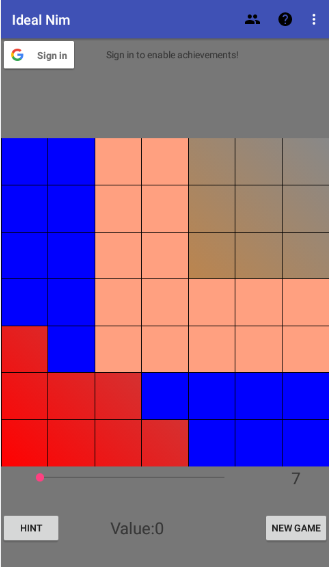
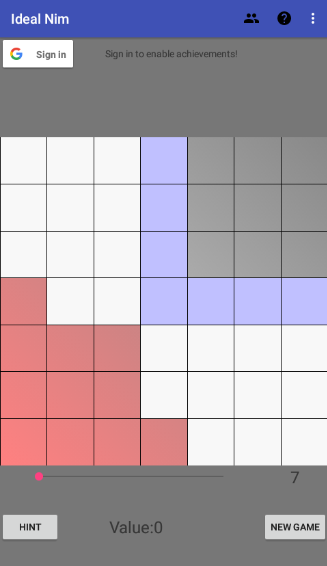
Changes in color and opening dialog (inspired by comments from Antonella Perucca).

diff --git a/app/src/main/assets/Help.html b/app/src/main/assets/Help.html
@@ -10,7 +10,7 @@
     </style>
 </head>
 <body>
-<a name="top"/><h1>Ideal Nim</h1>
+<h1><a name="top">Ideal Nim</a></h1>
 <ul>
     <li><a href="#idea">The idea</a></li>
     <li><a href="#gameplay">Gameplay</a></li>
@@ -34,7 +34,7 @@ More information on this appears in the section on
 <p/>
 <a href="#top">Back to the top</a>
 
-<h2><a name="gameplay"/>Gameplay</h2>
+<h2><a name="gameplay">Gameplay</a></h2>
 
 This section is divided into the following subsections:
 <ul>
@@ -46,7 +46,7 @@ This section is divided into the following subsections:
 
 <h3><a name="basic">Basic gameplay</a></h3>
 A game of Ideal Nim takes place on a finite gameboard.
-<p align="center"><img align="center" src="screenshot_for_help_no_moves.png" width="50%"></p>
+<p align="center"><img align="center" src="screenshot_for_help_no_moves_crop.png" width="50%"></p>
 In theory, the board could extend indefinitely to the northeast;
 that is, an &ldquo;ideal&rdquo; game of Ideal Nim has an infinite game board.
 In practice, this is impossible to implement, so the app limits the board size.
@@ -71,11 +71,9 @@ this makes clear which position your opponent chose.
     <b><i>The player who takes the last valid square wins.</i></b><p/>
     <img src="screenshot_for_game_over_crop.png" width="50%">
 </center>
-Initially, valid positions are colored <span style="color:blue;">blue</span>,
-while invalid positions are colored <span style="color:red;">red</span> or
-<span style="color:#ff8000;">orange</span>,
-depending on whether the invalid square is <span style="color:red;">unplayable</span> or
-<span style="color:#ff8000;">already played</span>.
+Initially, valid positions are colored white,
+while invalid positions are colored red, gray, or blue,
+depending on whether the invalid square is unplayable, already played, or just played.
 You can change this in the <a href="#options">Options</a>.
 <p/>
 To help identify valid and invalid squares,
@@ -83,16 +81,18 @@ you can drag your finger across the board, and the square underneath it
 will change color according to whether the square is valid.
 By default, black is invalid, but you can change this in the <a href="#options">Options</a>.
 <p/>
-<table width="75%" align="center"><tbody>
+<table width="80%" align="center"><tbody>
 <tr>
-    <td align="center" width="33%"><img src="screenshot_for_help_valid_move_crop.png" width="100%"></td>
-    <td align="center" width="33%"><img src="screenshot_for_help_invalid_move_played_crop.png" width="100%"></td>
-    <td align="center" width="33%"><img src="screenshot_for_help_invalid_move_unplayable_crop.png" width="100%"></td>
+    <td align="center" width="25%"><img src="screenshot_for_help_valid_move_crop.png" width="100%"></td>
+    <td align="center" width="25%"><img src="screenshot_for_help_invalid_move_unplayable_crop.png" width="100%"></td>
+    <td align="center" width="25%"><img src="screenshot_for_help_invalid_move_played_crop.png" width="100%"></td>
+    <td align="center" width="25%"><img src="screenshot_for_help_invalid_move_just_played_crop.png" width="100%"></td>
 </tr>
 <tr>
     <td align="center">valid</td>
-    <td align="center">invalid (played)</td>
     <td align="center">invalid (unplayable)</td>
+    <td align="center">invalid (previously played)</td>
+    <td align="center">invalid (just played)</td>
 </tr>
 </tbody></table>
 
@@ -131,7 +131,7 @@ A message will pop up, indicating the computer&rsquo;s progress in analyzing the
 through both a percentage and a ratio of positions analyzed.
 <p/>
 <b>The good news:</b>
-Once it&rsquo;s done, <b>the analysis is complete</b>.
+Once it&rsquo;s done, <b>the majority of the analysis is complete</b>.
 If you can wait out that first analysis,
 it will be near-instantaneous for the rest of that game.
 <p/>
@@ -199,6 +199,15 @@ along with some explanations. Here&rsquo;s a little more detail on how some of t
         So, while ten levels are listed,
         there are really only five levels of different configurations.
         <p/>
+    </li>
+    <li>
+        <b>Theme</b> &mdash; It is possible to select from two major color schemes.
+        &ldquo;Rowdy&rdquo; is the scheme used during app development
+        (and then I forgot to remove it when I published the app).
+        Its colors are rather bold.
+        &ldquo;Pastel&rdquo; is a somewhat more subdued scheme,
+        meant to be a little easier on the eyes.
+        <p>You can, of course, choose other colors, but they will not affect the themes.</p>
     </li>
 </ul>
 
@@ -288,6 +297,7 @@ especially if you can find in your area a university that carries <i>Mathematics
 <h2><a name="credits">Credits</a></h2>
 Ideal Nim, Version 1.0 &#169; 2017
 <br/>App by <a href="http://www.math.usm.edu/perry/">John Perry</a>.
+<br>Thanks to Antonella Perucca for helpful comments.
 <p/>
 Please report any bugs to the author.
 <p/>

diff --git a/app/src/main/java/name/cantanima/idealnim/Playfield.java b/app/src/main/java/name/cantanima/idealnim/Playfield.java
@@ -4,6 +4,7 @@ import android.app.AlertDialog;
 import android.bluetooth.BluetoothSocket;
 import android.content.Context;
 import android.content.SharedPreferences;
+import android.content.SharedPreferences.Editor;
 import android.graphics.Canvas;
 import android.graphics.Color;
 import android.graphics.LinearGradient;
@@ -25,11 +26,13 @@ import java.util.ArrayList;
 import java.util.Iterator;
 
 import name.cantanima.idealnim.Game_Control.Player_Kind;
+import yuku.ambilwarna.widget.AmbilWarnaPreference;
 
 import static android.graphics.Color.BLACK;
 import static android.graphics.Color.BLUE;
 import static android.graphics.Color.GRAY;
 import static android.graphics.Color.RED;
+import static android.graphics.Color.WHITE;
 import static android.graphics.Color.YELLOW;
 import static android.graphics.Paint.Style.FILL;
 import static android.graphics.Paint.Style.STROKE;
@@ -152,12 +155,12 @@ public class Playfield
         w + getPaddingLeft() + getPaddingRight(), h + getPaddingTop() + getPaddingBottom()
     );
 
-    bg_paint.setShader(
+    /*bg_paint.setShader(
         new LinearGradient(0, h, w, 0, background_color, disappear_color, Shader.TileMode.CLAMP)
     );
     played_paint.setShader(
         new LinearGradient(0, h, w, 0, played_color, disappear_color, Shader.TileMode.CLAMP)
-    );
+    );*/
 
   }
 
@@ -605,6 +608,35 @@ public class Playfield
       invalid_color = pref.getInt(context.getString(R.string.invalid_color_key), invalid_color);
     else if (key.equals(context.getString(R.string.last_played_color_key)))
       last_played_color = pref.getInt(context.getString(R.string.last_played_color_key), last_played_color);
+    else if (key.equals(context.getString(R.string.theme_key))) {
+      boolean changed = true;
+      switch (Integer.valueOf(pref.getString(context.getString(R.string.theme_key), "0"))) {
+        case 0:
+        default:
+          changed = false;
+          break;
+        case 1:
+          playable_color = Color.rgb(0xf8, 0xf8, 0xf8);
+          played_color = Color.rgb(0xd8, 0xd8, 0xd8);
+          last_played_color = Color.rgb(0xc0, 0xc0, 0xff);
+          background_color = Color.rgb(0xff, 0x80, 0x80);
+          break;
+        case 2:
+          playable_color = BLUE;
+          played_color = Color.rgb(0xff, 0x80, 0x00);
+          last_played_color = Color.rgb(0xff, 0xa0, 0x80);
+          background_color = RED;
+          break;
+      }
+      if (changed) {
+        Editor edit = pref.edit();
+        edit.putInt(context.getString(R.string.playable_color_key), playable_color);
+        edit.putInt(context.getString(R.string.played_color_key), played_color);
+        edit.putInt(context.getString(R.string.last_played_color_key), last_played_color);
+        edit.putInt(context.getString(R.string.bg_color_key), background_color);
+        edit.commit();
+      }
+    }
     bg_paint.setShader(
         new LinearGradient(
             0, getHeight(), getWidth(), 0, background_color, disappear_color, Shader.TileMode.CLAMP
@@ -709,9 +741,12 @@ public class Playfield
   protected float step_x, step_y;
   protected int highlight_x, highlight_y;
   protected boolean highlighting = false, hinting = false;
-  protected int playable_color = BLUE, played_color = Color.rgb(0xff, 0x80, 0x00),
-      disappear_color = GRAY, invalid_color = BLACK, last_played_color = Color.rgb(0xff, 0xa0, 0x80),
-      background_color = RED, highlight_color = YELLOW, hint_color = Color.rgb(0xff, 0x80, 0x00);
+  protected int playable_color = Color.rgb(0xf8, 0xf8, 0xf8), //played_color = Color.rgb(0xff, 0x80, 0x00),
+      played_color = Color.rgb(0xd8, 0xd8, 0xd8),
+      disappear_color = GRAY, invalid_color = BLACK, //last_played_color = Color.rgb(0xff, 0xa0, 0x80),
+      last_played_color = Color.rgb(0xc0, 0xc0, 0xff), //Color.rgb(0x80, 0x80, 0xff),
+      background_color = Color.rgb(0xff, 0x80, 0x80), //Color.rgb(0xff, 0xa0, 0xa0),
+      highlight_color = YELLOW, hint_color = Color.rgb(0xff, 0x80, 0x00);
   protected Paint highlight_paint = new Paint(), hint_paint = new Paint(),
       played_paint = new Paint(), playable_paint = new Paint(), last_played_paint = new Paint(),
       bg_paint = new Paint(), line_paint = new Paint(), invalid_paint = new Paint();

diff --git a/app/src/main/java/name/cantanima/idealnim/Settings_Fragment.java b/app/src/main/java/name/cantanima/idealnim/Settings_Fragment.java
@@ -1,15 +1,21 @@
 package name.cantanima.idealnim;
 
+import android.content.Context;
+import android.content.SharedPreferences;
 import android.os.Bundle;
 import android.preference.PreferenceFragment;
 import android.preference.PreferenceManager;
 import android.support.annotation.Nullable;
 
+import yuku.ambilwarna.widget.AmbilWarnaPreference;
+
 /**
  * Created by cantanima on 8/11/17.
  */
 
-public class Settings_Fragment extends PreferenceFragment {
+public class Settings_Fragment extends PreferenceFragment
+    implements SharedPreferences.OnSharedPreferenceChangeListener
+{
 
   @Override
   public void onCreate(@Nullable Bundle savedInstanceState) {
@@ -17,4 +23,55 @@ public class Settings_Fragment extends PreferenceFragment {
     addPreferencesFromResource(R.xml.preferences);
   }
 
+  /**
+   * Called when the fragment is visible to the user and actively running.
+   * This is generally
+   * tied to {@link Activity#onResume() Activity.onResume} of the containing
+   * Activity's lifecycle.
+   */
+  @Override
+  public void onResume() {
+    super.onResume();
+    PreferenceManager.getDefaultSharedPreferences(getActivity()).registerOnSharedPreferenceChangeListener(this);
+  }
+
+  /**
+   * Called when the Fragment is no longer resumed.  This is generally
+   * tied to {@link Activity#onPause() Activity.onPause} of the containing
+   * Activity's lifecycle.
+   */
+  @Override
+  public void onPause() {
+    super.onPause();
+    PreferenceManager.getDefaultSharedPreferences(getActivity()).unregisterOnSharedPreferenceChangeListener(this);
+  }
+
+  /**
+   * Called when a shared preference is changed, added, or removed. This
+   * may be called even if a preference is set to its existing value.
+   * <p>
+   * <p>This callback will be run on your main thread.
+   *
+   * @param sharedPreferences The {@link SharedPreferences} that received
+   *                          the change.
+   * @param key               The key of the preference that was changed, added, or
+   */
+  @Override
+  public void onSharedPreferenceChanged(SharedPreferences sharedPreferences, String key) {
+    if (isAdded()) {
+      if (key.equals(getString(R.string.bg_color_key))) {
+        AmbilWarnaPreference pref = (AmbilWarnaPreference) findPreference(getString(R.string.bg_color_key));
+        pref.forceSetValue(sharedPreferences.getInt(getString(R.string.bg_color_key), 0));
+      } else if (key.equals(getString(R.string.playable_color_key))) {
+        AmbilWarnaPreference pref = (AmbilWarnaPreference) findPreference(getString(R.string.playable_color_key));
+        pref.forceSetValue(sharedPreferences.getInt(getString(R.string.playable_color_key), 0));
+      } else if (key.equals(getString(R.string.played_color_key))) {
+        AmbilWarnaPreference pref = (AmbilWarnaPreference) findPreference(getString(R.string.played_color_key));
+        pref.forceSetValue(sharedPreferences.getInt(getString(R.string.played_color_key), 0));
+      } else if (key.equals(getString(R.string.last_played_color_key))) {
+        AmbilWarnaPreference pref = (AmbilWarnaPreference) findPreference(getString(R.string.last_played_color_key));
+        pref.forceSetValue(sharedPreferences.getInt(getString(R.string.last_played_color_key), 0));
+      }
+    }
+  }
 }

diff --git a/app/src/main/java/name/cantanima/idealnim/Game_Control.java b/app/src/main/java/name/cantanima/idealnim/Game_Control.java
@@ -4,6 +4,9 @@ import android.app.AlertDialog;
 import android.content.DialogInterface;
 import android.content.SharedPreferences;
 import android.preference.PreferenceManager;
+import android.view.Gravity;
+import android.view.Window;
+import android.view.WindowManager;
 
 import java.util.Calendar;
 import java.util.GregorianCalendar;
@@ -118,7 +121,14 @@ public class Game_Control implements DialogInterface.OnClickListener {
         first_builder.setMessage(main_activity.getString(R.string.who_first));
         first_builder.setPositiveButton(main_activity.getString(R.string.human), this);
         first_builder.setNegativeButton(main_activity.getString(R.string.computer), this);
-        first_builder.show();
+        AlertDialog dialog = first_builder.create();
+        Window dialog_window = dialog.getWindow();
+        WindowManager.LayoutParams win_attr = dialog_window.getAttributes();
+        //win_attr.gravity = Gravity.BOTTOM;
+        win_attr.alpha = 0.85f;
+        dialog_window.setAttributes(win_attr);
+        dialog_window.setDimAmount(0.25f);
+        dialog.show();
         last_dialog = NEW_GAME;
       }
 
